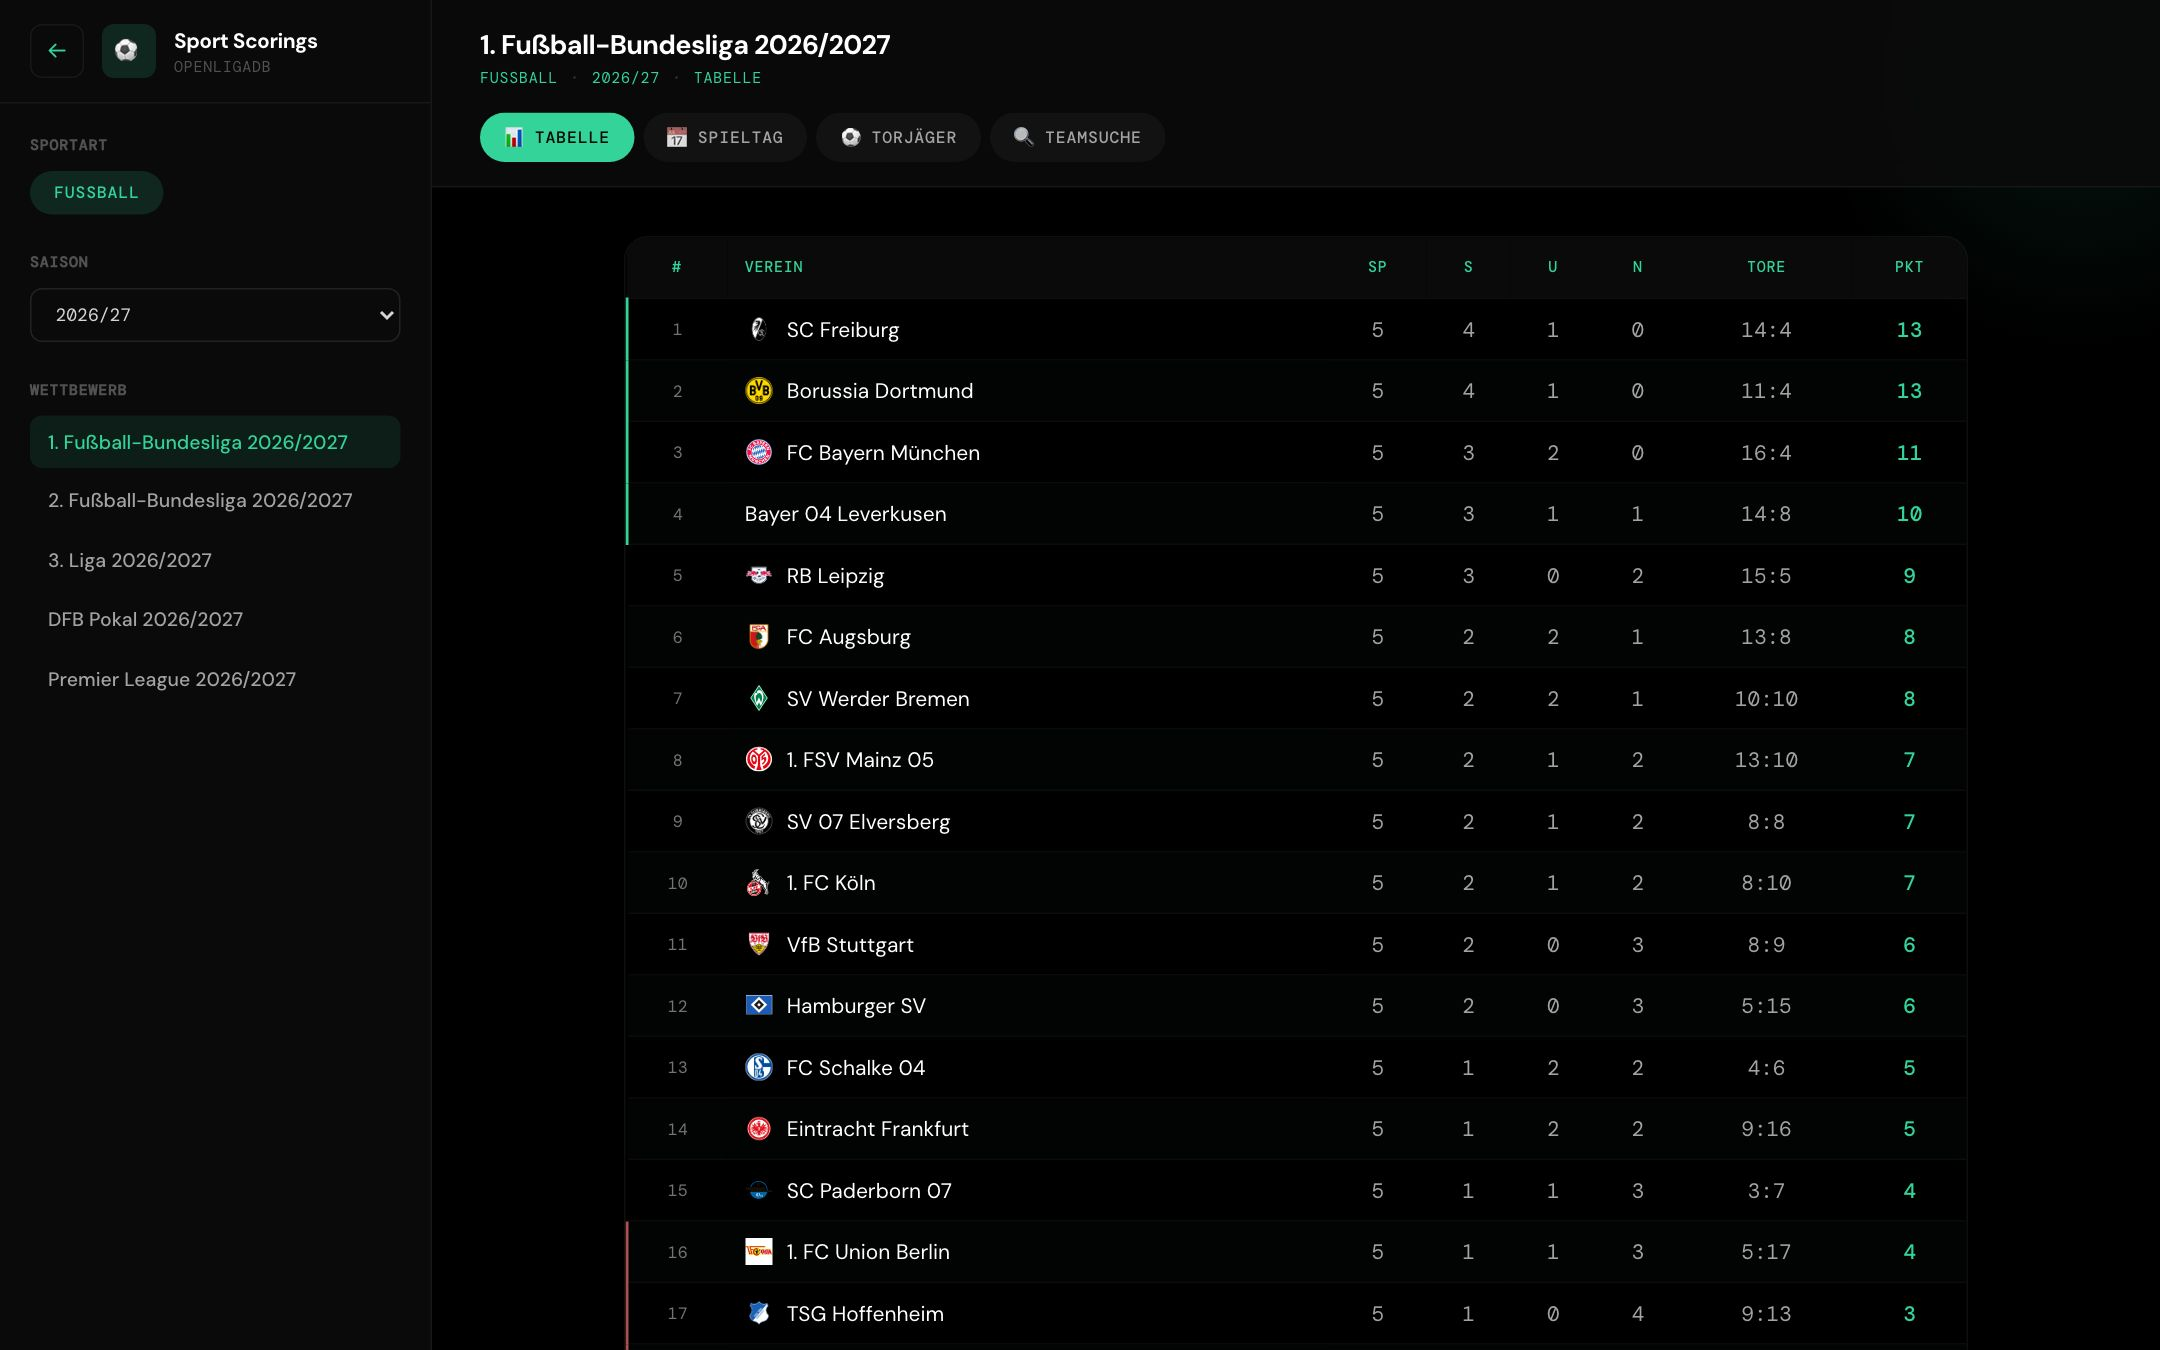
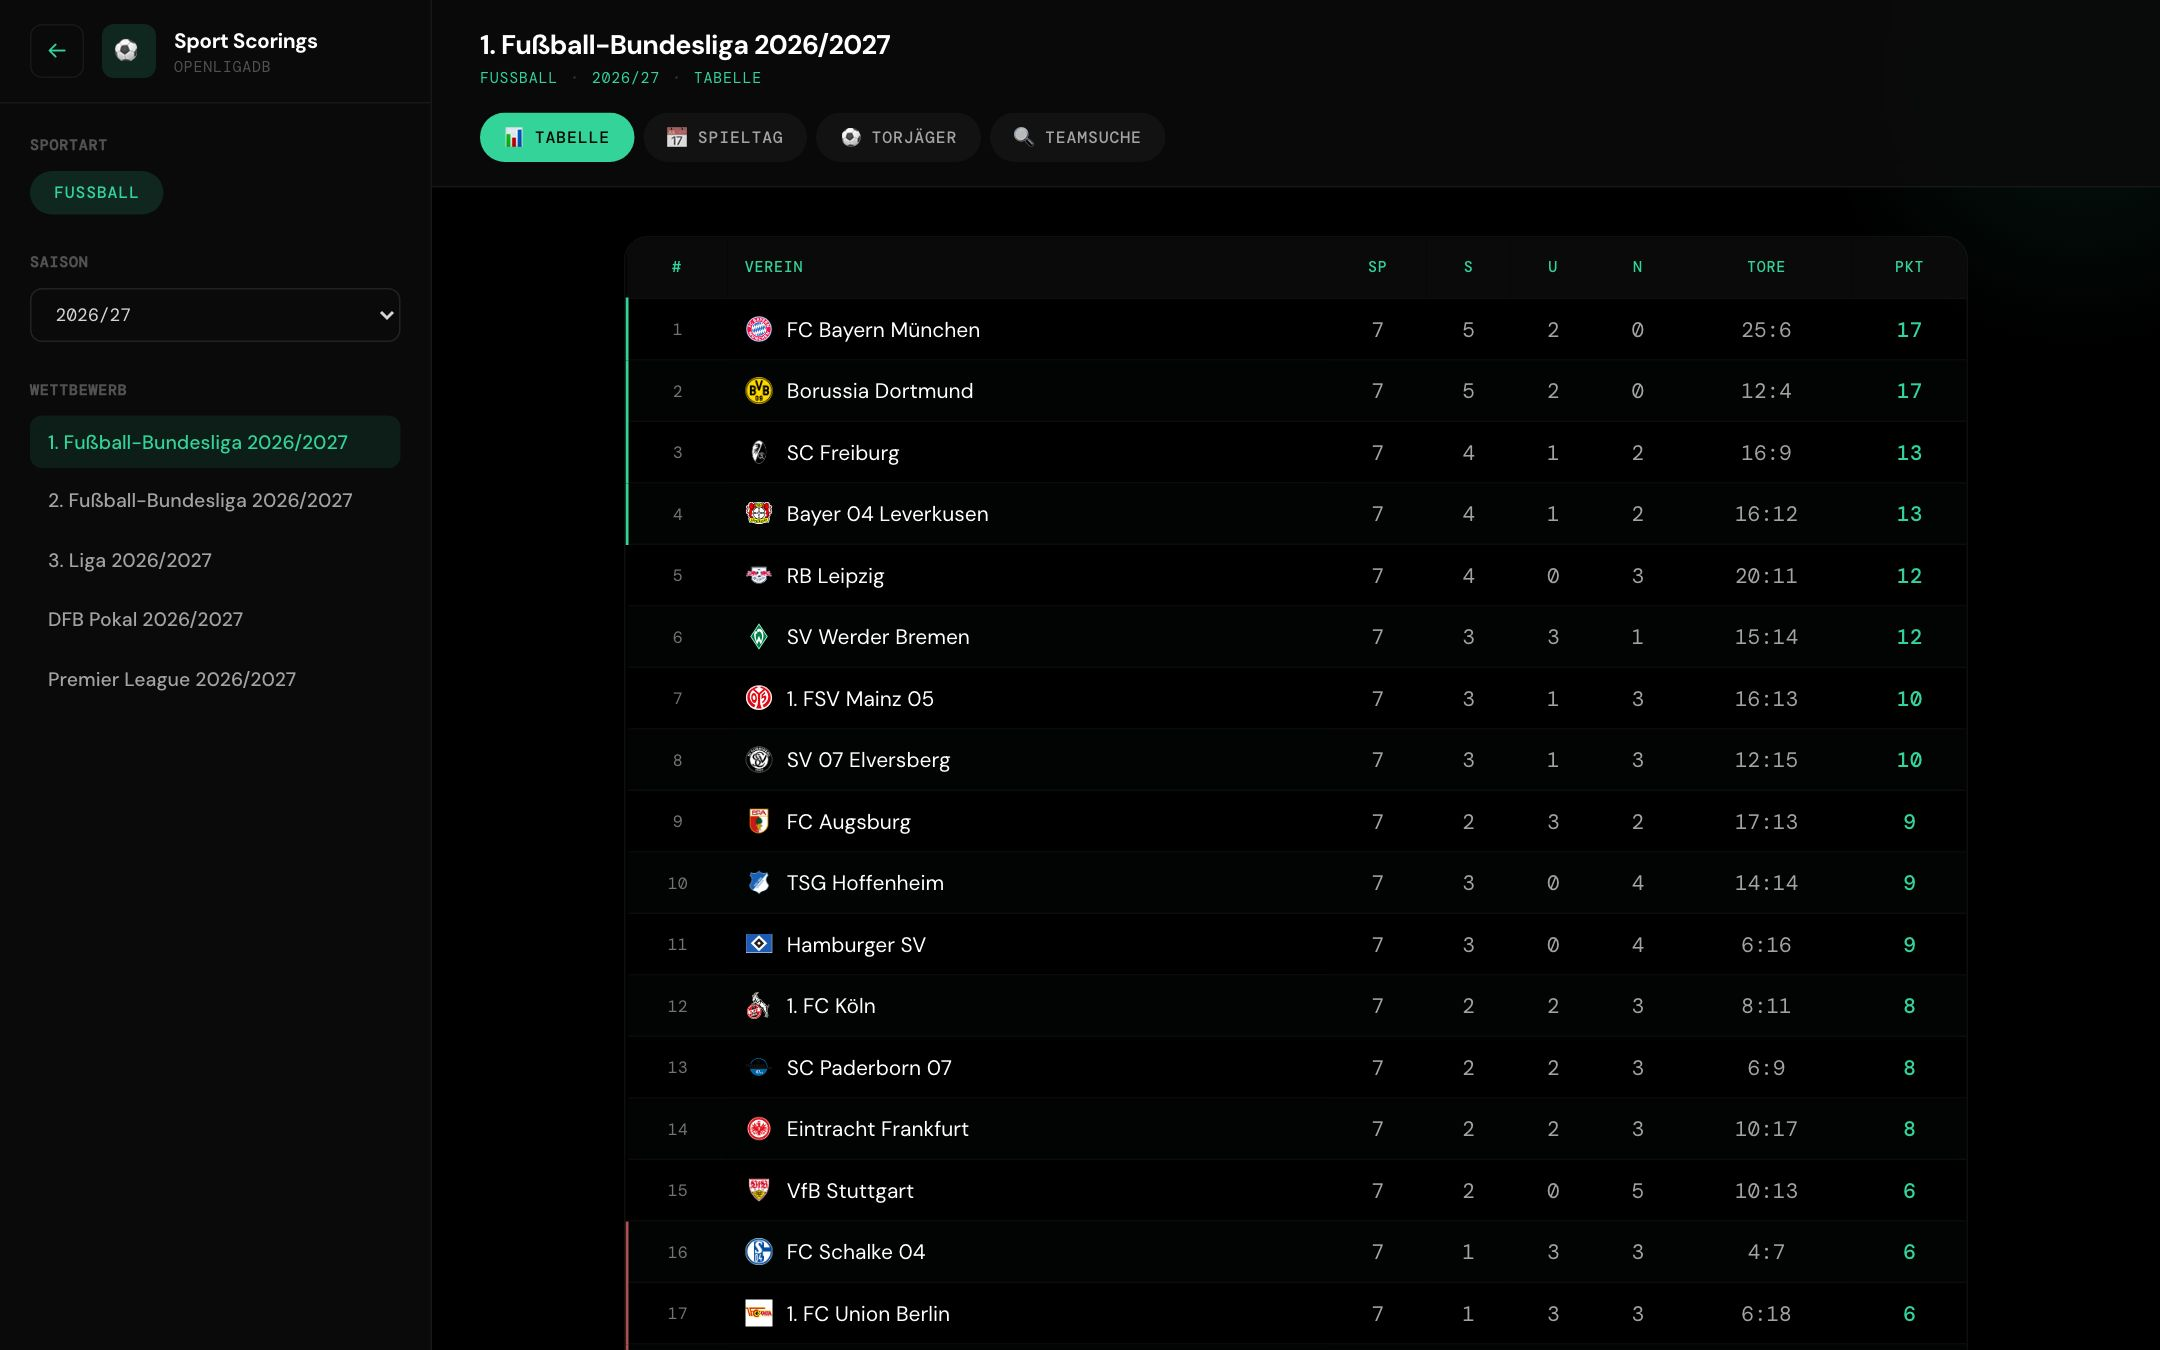
Add project screenshots and polish demo data
- Wire up screenshots for xG Lab, Finanz Tracker and Auth & Rollen-System
- Keep the finance form inside its panel on wide screens
- Raise the demo savings goal so it is not already reached
- Move sample shots closer to goal and lower the big-chance threshold

diff --git a/src/projects/financeTracker/financeTracker.jsx b/src/projects/financeTracker/financeTracker.jsx
@@ -29,7 +29,7 @@ function initialState() {
         const saved = JSON.parse(localStorage.getItem(STORAGE_KEY));
         if (saved?.transactions) return saved;
     } catch { /* storage blocked or corrupt: fall back to demo data */ }
-    return { transactions: demoTransactions(), budgets: DEFAULT_BUDGETS, goal: { name: 'Neuer Laptop', target: 1800 } };
+    return { transactions: demoTransactions(), budgets: DEFAULT_BUDGETS, goal: { name: 'Neuer Laptop', target: 4500 } };
 }
 
 function sumBy(list, type) {
@@ -177,7 +177,7 @@ export default function FinanceTracker() {
 
     const removeTransaction = (id) => setState((s) => ({ ...s, transactions: s.transactions.filter((t) => t.id !== id) }));
     const setBudget = (id, value) => setState((s) => ({ ...s, budgets: { ...s.budgets, [id]: Math.max(0, Number(value) || 0) } }));
-    const resetDemo = () => setState({ transactions: demoTransactions(), budgets: DEFAULT_BUDGETS, goal: { name: 'Neuer Laptop', target: 1800 } });
+    const resetDemo = () => setState({ transactions: demoTransactions(), budgets: DEFAULT_BUDGETS, goal: { name: 'Neuer Laptop', target: 4500 } });
 
     const exportCsv = () => {
         const rows = transactions.map((t) => [t.date, `"${t.description.replace(/"/g, '""')}"`, t.type, categoryById(t.category).label, t.amount.toFixed(2)].join(';'));
@@ -319,7 +319,7 @@ export default function FinanceTracker() {
 
                     {/* transactions */}
                     <section className={`${panel} lg:col-span-7`}>
-                        <form onSubmit={addTransaction} className="mb-5 grid grid-cols-2 gap-2 sm:grid-cols-[auto_1fr_90px_auto] xl:grid-cols-[auto_1fr_90px_auto_auto_auto]">
+                        <form onSubmit={addTransaction} className="mb-5 grid grid-cols-2 gap-2 sm:grid-cols-[auto_1fr_90px_auto]">
                             <select value={form.type} onChange={(e) => setForm((f) => ({ ...f, type: e.target.value, category: e.target.value === 'in' ? 'gehalt' : 'essen' }))} className={input}>
                                 <option value="out">Ausgabe</option>
                                 <option value="in">Einnahme</option>

diff --git a/src/projects/projectData.js b/src/projects/projectData.js
@@ -36,6 +36,7 @@ export const PROJECTS = [
         kind: 'Data Science',
         period: '2026',
         status: 'Live',
+        image: '/projects/xglab.jpg',
         href: '/xg-lab',
         linkLabel: 'Modell ausprobieren',
         summary: 'Ein interaktives Expected-Goals-Modell: Schüsse aufs Feld setzen, Torwahrscheinlichkeit live berechnen, verdientes Ergebnis ableiten.',
@@ -85,6 +86,7 @@ export const PROJECTS = [
         kind: 'Business-Dashboard',
         period: '2026',
         status: 'Live',
+        image: '/projects/finanztracker.jpg',
         href: '/finance-tracker',
         linkLabel: 'Dashboard öffnen',
         summary: 'Budgets, Cashflow und Sparziele auf einen Blick – mit automatischer Auswertung und Prognose zum Monatsende.',
@@ -110,6 +112,7 @@ export const PROJECTS = [
         kind: 'Security / Backend',
         period: '2026',
         status: 'Live',
+        image: '/projects/rbac.jpg',
         href: '/auth-rollen-system',
         linkLabel: 'Playground öffnen',
         summary: 'Rollenbasierte Zugriffskontrolle für eine Vereins-App: echte signierte JWTs, eine editierbare Berechtigungsmatrix und eine Middleware, die jede Entscheidung offenlegt.',

diff --git a/src/projects/xgLab/xgModel.js b/src/projects/xgLab/xgModel.js
@@ -56,8 +56,8 @@ export function sampleMatch(seed = 7) {
     const make = (team, count) => {
         for (let i = 0; i < count; i++) {
             const inBox = rand() < 0.68;
-            const y = inBox ? 4 + rand() * 13 : 17 + rand() * 13;
-            const spread = inBox ? 20 : 30;
+            const y = inBox ? 2.5 + rand() * 14 : 17 + rand() * 13;
+            const spread = inBox ? 18 : 30;
             const x = GOAL.x + (rand() - 0.5) * spread;
             const bodyPart = inBox && rand() < 0.22 ? 'head' : 'foot';
             const r = rand();

diff --git a/src/projects/xgLab/xgLab.jsx b/src/projects/xgLab/xgLab.jsx
@@ -12,7 +12,7 @@ const TEAMS = {
     away: { label: 'Gast', color: '#8fb0ff' },
 };
 const HEAT_CELL = 2;
-const BIG_CHANCE = 0.3;
+const BIG_CHANCE = 0.25;
 
 const label = 'm-0 mb-2.5 font-mono text-[10px] font-semibold uppercase tracking-wider text-neutral-600';
 const panel = 'rounded-2xl border border-white/[0.06] bg-[#0a0a0a] p-5';
